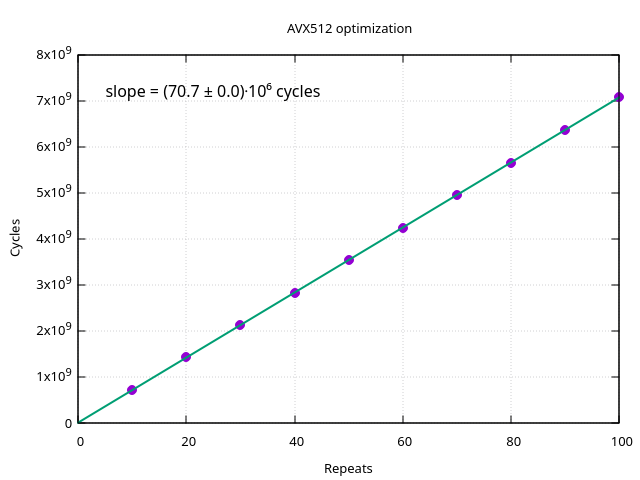
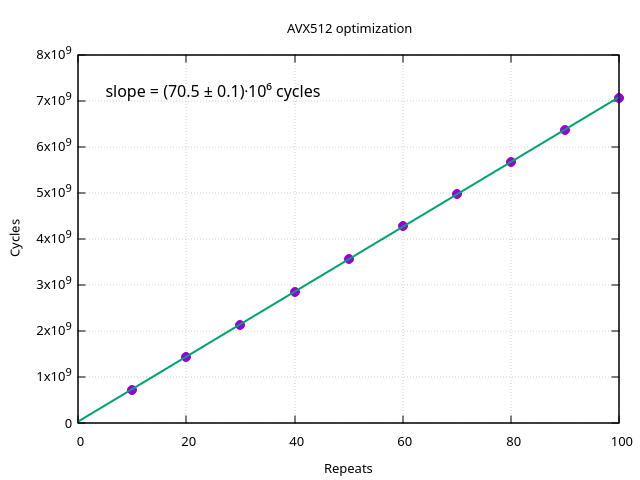
update README

diff --git a/README.md b/README.md
@@ -10,10 +10,10 @@
 В качестве программы для тестирования оптимизаций было предложено вычисление и визуализация множества Мандельброта.
 
 #### Реализации
-1. **NORMAL** – базовая реализация без оптимизаций.
-2. **SSE**    – оптимизация с использованием SSE-инструкций    (128-битные векторы).
-3. **AVX2**   – оптимизация с использованием AVX2-инструкций   (256-битные векторы).
-4. **AVX512** – оптимизация с использованием AVX512-инструкций (512-битные векторы).
+1) **NORMAL** – базовая реализация без оптимизаций.
+2) **SSE**    – оптимизация с использованием SSE-инструкций    (128-битные векторы).
+3) **AVX2**   – оптимизация с использованием AVX2-инструкций   (256-битные векторы).
+4) **AVX512** – оптимизация с использованием AVX512-инструкций (512-битные векторы).
 
 ## Сборка и запуск
 
@@ -86,6 +86,7 @@ taskset -c <core number>
 Условия, в которых проводились измерения
 1) Тактовая частота процессора фиксирована и равна 3.2 GHz.
 2) Различные оптимизации запускаются на одном и том же ядре C0.
+3) Компиляция программы с флагом -O2.
 
 Во время работы программы я слежу за условиями с помощью программы btop.
 В ней я вижу текущую тактовую частоту и температуру процессора.
@@ -162,32 +163,45 @@ taskset -c <core number>
 
 <table>
     <tr>
-        <td><img src="https://github.com/user-attachments/assets/ff71a65b-9834-4953-94de-826876b6e7ae"/></td>
+        <td><img src="https://github.com/user-attachments/assets/858beb54-2e45-4372-bcd0-e469b4ead3a1"/></td>
         <td>
             <table>
-            	<tr><th>Repeats</th><th>Cycles</th></tr>
-            	<tr><th>10</th><th>709.7⋅10⁶</th></tr>
-            	<tr><th>20</th><th>1420.4⋅10⁶</th></tr>
-            	<tr><th>30</th><th>2120.8⋅10⁶</th></tr>
-            	<tr><th>40</th><th>2830.0⋅10⁶</th></tr>
-            	<tr><th>50</th><th>3530.3⋅10⁶</th></tr>
-            	<tr><th>60</th><th>4240.4⋅10⁶</th></tr>
-            	<tr><th>70</th><th>4950.2⋅10⁶</th></tr>
-            	<tr><th>80</th><th>5652.5⋅10⁶</th></tr>
-            	<tr><th>90</th><th>6358.9⋅10⁶</th></tr>
-            	<tr><th>100</th><th>7077.9⋅10⁶</th></tr>
+                <table>
+                	<tr><th>Repeats</th><th>Cycles</th></tr>
+                	<tr><th>10</th><th>720.7⋅10⁶</th></tr>
+                	<tr><th>20</th><th>1434.2⋅10⁶</th></tr>
+                	<tr><th>30</th><th>2133.1⋅10⁶</th></tr>
+                	<tr><th>40</th><th>2844.0⋅10⁶</th></tr>
+                	<tr><th>50</th><th>3568.8⋅10⁶</th></tr>
+                	<tr><th>60</th><th>4268.6⋅10⁶</th></tr>
+                	<tr><th>70</th><th>4978.0⋅10⁶</th></tr>
+                	<tr><th>80</th><th>5676.4⋅10⁶</th></tr>
+                	<tr><th>90</th><th>6354.0⋅10⁶</th></tr>
+                	<tr><th>100</th><th>7066.1⋅10⁶</th></tr>
+                </table>
             </table>
         </td>
     </tr>
 </table>
 
 ## Обсуждение результатов
-На графиках мы видим, что экспериментальные данные хорошо описываются линейной зависимостью, что
-подтверждает стационарность условий эксперимента.
+Проведённые исследования демонстрируют значительный выигрыш в производительности при использовании SIMD-инструкций для вычисления множества Мандельброта.
 
-Теоретически количество тактов в различных реализацих должно быть в соотношении 8 : 4 : 2 : 1,
-т.к. каждая оптимизация обрабатывает вдвое большую порцию данных за раз в итерации цикла вычислений.
+- AVX-512 показал наилучшие результаты с ускорением в ~5.5 раза по сравнению с базовой реализацией
+- AVX2 обеспечил ускорение в ~3.7 раза
+- SSE дал ускорение в ~1.9 раза
 
-Экспериментально получено соотношение 6.27 : 3.33 : 1.75 : 1.
-
-Эти результаты хорошо ложатся на теорию, что говорит о том что эксперимент проведён успешно.
+<table>
+    <tr>
+        <td><img src="https://github.com/user-attachments/assets/5067046a-0ea1-4794-98fb-4a2053413403"/></td>
+        <td>
+            <table>
+            	<tr><th>Реализация</th><th>Количество тактов</th></tr>
+            	<tr><th>No optimization</th><th>(384.5 ± 0.5)⋅10⁶</th></tr>
+            	<tr><th>SSE</th><th>(204.8 ± 0.2)⋅10⁶</th></tr>
+            	<tr><th>AVX2</th><th>(104.6 ± 0.1)⋅10⁶</th></tr>
+            	<tr><th>AVX512</th><th>(70.5 ± 0.1)⋅10⁶</th></tr>
+            </table>
+        </td>
+    </tr>
+</table>
